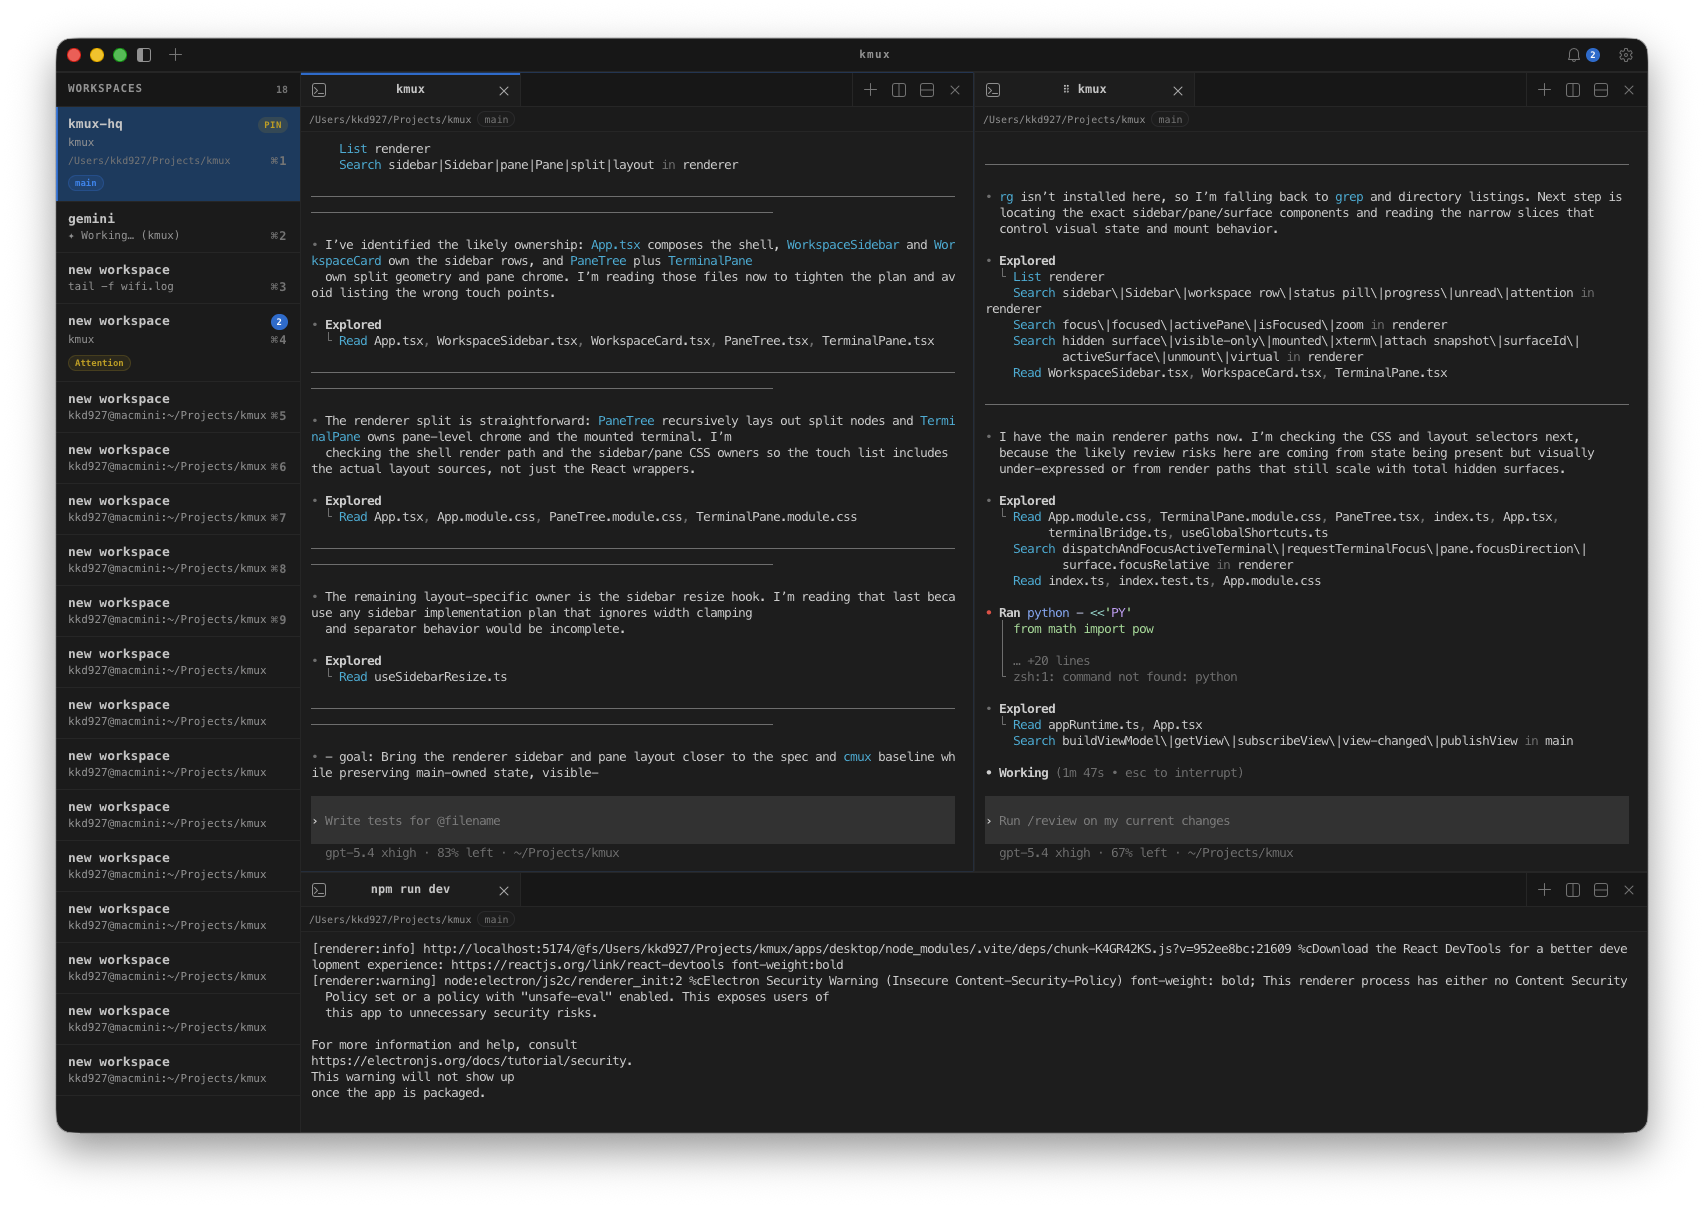
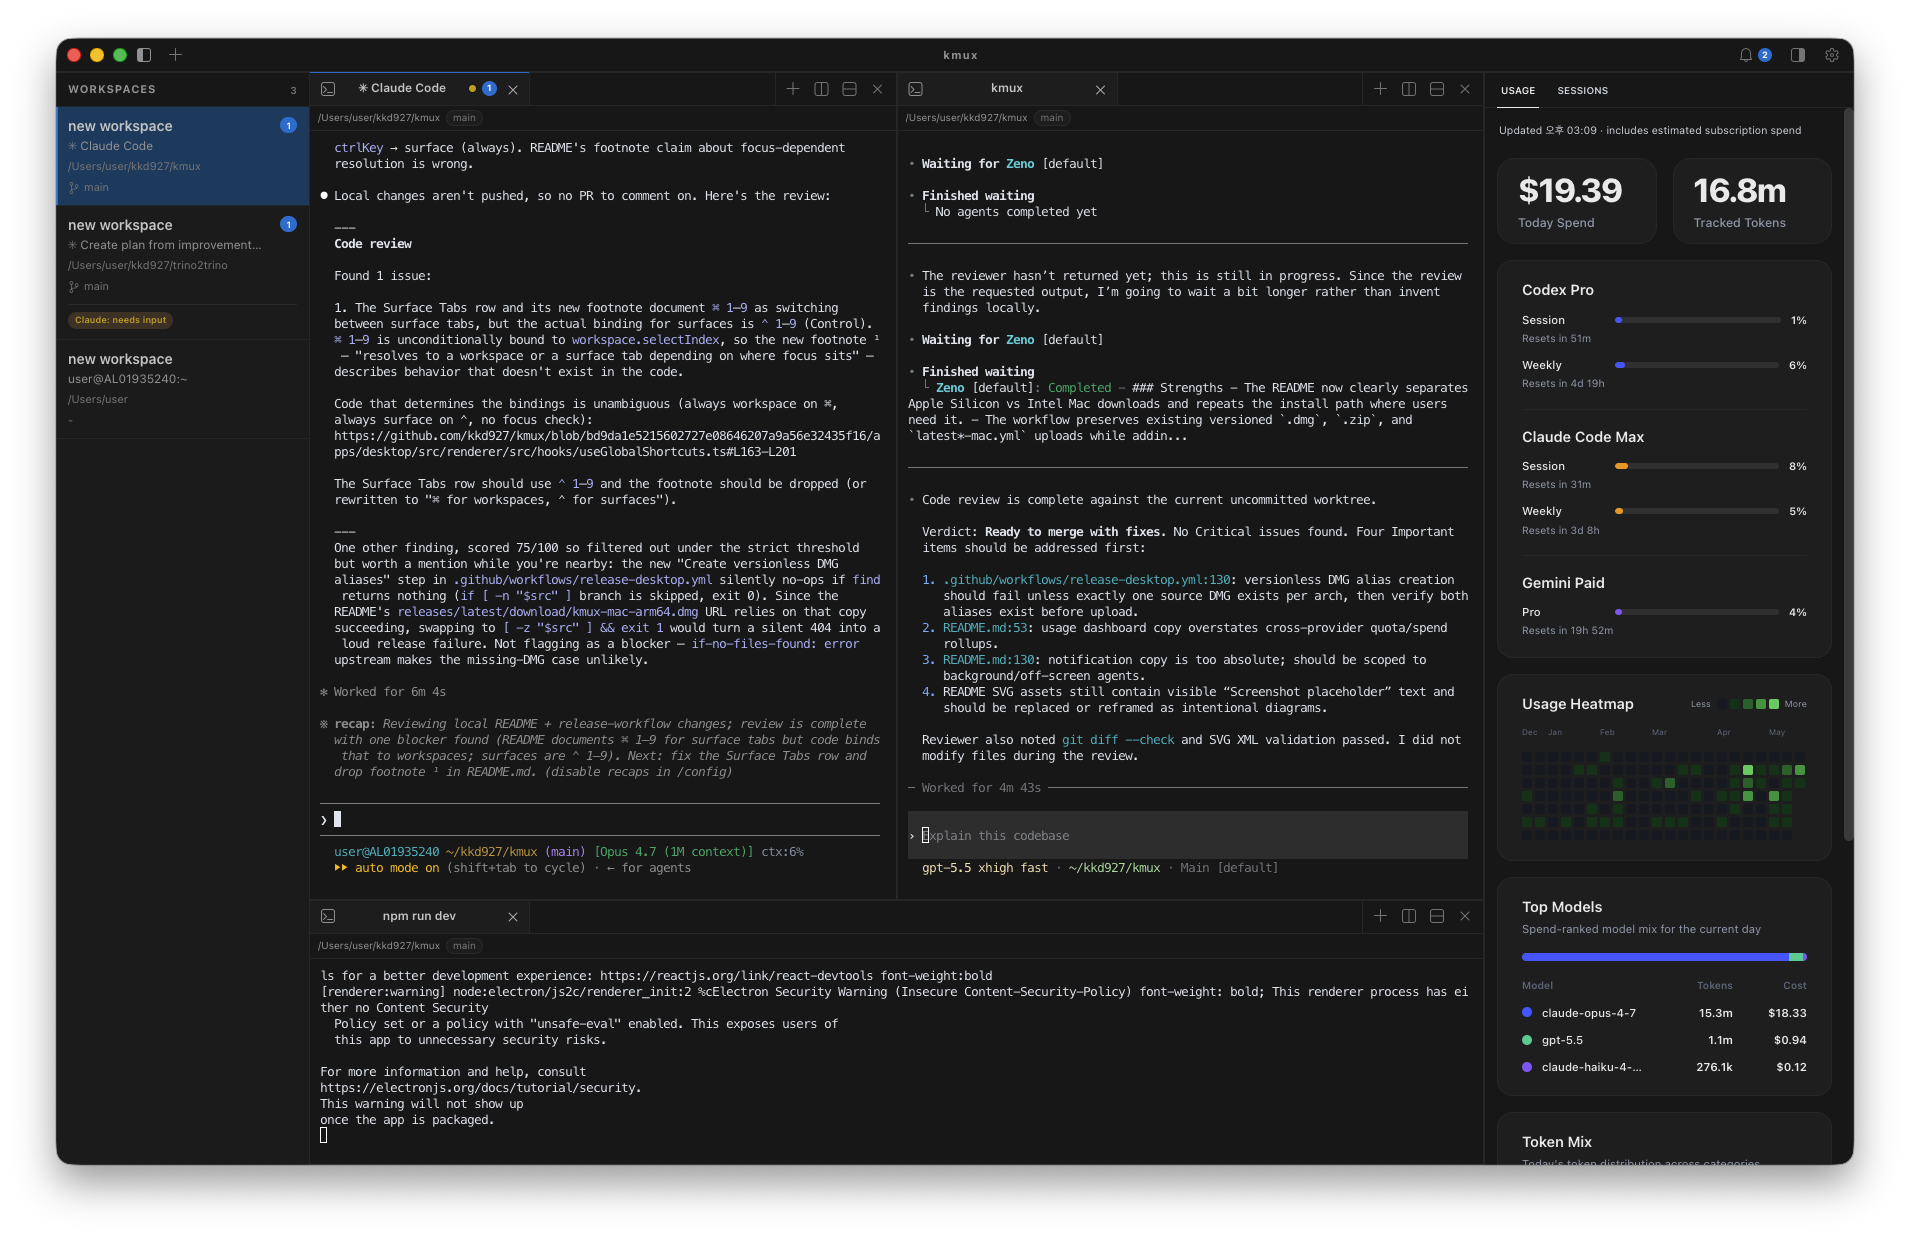
docs: refresh README and download assets

diff --git a/README.md b/README.md
@@ -2,20 +2,25 @@
 
 # kmux
 
-**A keyboard-first terminal workspace manager for macOS**
+**Run Claude Code, Codex CLI, and Gemini CLI side-by-side — without losing track of any of them.**
 
-Split panes. Tabbed surfaces. Sidebar status. Automation-ready.
+A macOS workspace for AI coding agents: parallel sessions, integrated usage, instant resume, worktree-safe branches.
 
 [![CI](https://github.com/kkd927/kmux/actions/workflows/ci.yml/badge.svg)](https://github.com/kkd927/kmux/actions/workflows/ci.yml)
 [![Release](https://img.shields.io/github/v/release/kkd927/kmux?display_name=tag&style=flat&logo=github)](https://github.com/kkd927/kmux/releases/latest)
 [![macOS](https://img.shields.io/badge/platform-macOS-000?logo=apple&logoColor=fff)](https://github.com/kkd927/kmux/releases/latest)
 [![PRs Welcome](https://img.shields.io/badge/PRs-welcome-a78bfa)](./CONTRIBUTING.md)
 
-[**Download**](https://github.com/kkd927/kmux/releases/latest) · [**Shortcuts**](#-keyboard-shortcuts)
-
 <br>
 
-<img src="./docs/assets/readme/hero.png" alt="kmux — terminal workspace manager" width="860">
+<a href="https://github.com/kkd927/kmux/releases/latest/download/kmux-mac-arm64.dmg"><img alt="Download for Apple Silicon" src="./docs/assets/readme/download-apple-silicon.svg" height="72"></a>
+&nbsp;
+<a href="https://github.com/kkd927/kmux/releases/latest/download/kmux-mac-x64.dmg"><img alt="Download for Intel Mac" src="./docs/assets/readme/download-intel-mac.svg" height="72"></a>
+
+<br>
+<br>
+
+<img src="./docs/assets/readme/hero.png" alt="kmux — AI coding agent workspace" width="1000">
 
 </div>
 
@@ -23,38 +28,68 @@ Split panes. Tabbed surfaces. Sidebar status. Automation-ready.
 
 ## ✨ Why kmux?
 
-**kmux** reimagines your terminal as a full workspace manager — not just a tabbed shell. Organize sessions into named workspaces, split panes freely, keep multiple surface tabs per pane, and let the smart sidebar track your context automatically.
+If you've started leaning on **Claude Code**, **Codex CLI**, and **Gemini CLI** for real work, you've already hit the friction: three terminals, three rate limits, three session histories, and no good way to keep them from stepping on each other inside the same repo.
+
+**kmux** is a macOS workspace built around exactly that workflow:
+
+- Park each agent in its own workspace and run them in parallel
+- Get native macOS notifications when any agent needs input or finishes
+- Track combined usage and remaining session budgets in one sidebar
+- Jump back into any past Claude/Codex/Gemini session with one click
+- Spin up a `git worktree` so two agents can edit the same repo on different branches safely
+
+It's keyboard-first by design — every workflow is reachable from the home row — but that's how it gets out of your way, not the headline.
+
+<br>
+
+## 🚀 Highlights
 
 <table>
 <tr>
-<td width="50%">
+<td width="50%" valign="top">
 
-### 🖥️ Split Panes & Surface Tabs
+### 📊 Unified Usage Dashboard
 
-Split your terminal horizontally or vertically with a single keystroke. Each pane can hold multiple **surface tabs**, so you can group related sessions (server, logs, tests) right next to each other without clutter.
+Track Claude Code, Codex CLI, and Gemini CLI side-by-side in one right-sidebar panel. The 5-hour session window, weekly window, and monthly spend roll up across all three providers — so you can see remaining session budget at a glance.
+
+A daily heatmap, today's spend, top-spending models, and per-project hotspots round out the view, replacing a stack of `usage` commands with a single live dashboard.
 
 </td>
-<td width="50%">
+<td width="50%" valign="top">
 
-### 📂 Multi-Workspace
-
-Create dedicated workspaces per project. Each workspace remembers its own layout, splits, and surfaces. Switch instantly with `⌘ ]` / `⌘ [` or jump by number.
+<img src="./docs/assets/readme/usage-dashboard.png" alt="Unified usage dashboard" width="100%">
 
 </td>
 </tr>
 <tr>
-<td width="50%">
+<td width="50%" valign="top">
 
-### 📡 Sidebar & Notifications
-
-The smart sidebar shows each workspace's **cwd**, **git branch**, **active ports**, and an **unread badge** — all at a glance. Notifications, status pills, progress bars, and log feeds live here too.
+<img src="./docs/assets/readme/session-history.png" alt="Cross-agent session history" width="100%">
 
 </td>
-<td width="50%">
+<td width="50%" valign="top">
 
-### 🤖 Automation & CLI
+### 🕘 Cross-Agent Session History
 
-Drive everything programmatically via the built-in **CLI** and **Unix socket API**. Create workspaces, send keystrokes, set sidebar status, and trigger notifications — perfect for scripting and AI coding agents.
+kmux indexes the local session logs for all three agents — Claude (`~/.claude/projects`), Codex (`~/.codex/sessions`), Gemini (`~/.gemini/tmp`) — and surfaces them in one filterable panel.
+
+Click any row to resume that session. kmux focuses an existing surface for the same `cwd` if one is open, or spins up a fresh workspace and runs `claude --resume`, `codex resume`, or `gemini --resume` for you.
+
+</td>
+</tr>
+<tr>
+<td width="50%" valign="top">
+
+### 🌳 Worktree Workspaces
+
+Right-click any workspace → **Convert to Worktree Workspace** to lock it onto a fresh `git worktree`. Now two agents can edit the same repo on different branches without fighting over the working tree.
+
+kmux tracks the worktree lifecycle — branch name, dirty state, and removal, including a confirmation prompt before deleting a worktree with uncommitted changes — so the working copy never gets orphaned.
+
+</td>
+<td width="50%" valign="top">
+
+<img src="./docs/assets/readme/worktree-workspace.png" alt="Worktree workspace" width="100%">
 
 </td>
 </tr>
@@ -62,81 +97,55 @@ Drive everything programmatically via the built-in **CLI** and **Unix socket API
 
 <br>
 
-## 🏗️ Feature Highlights
+### Everything else you'd expect from a serious terminal
 
-| Feature               | Description                                                         |
-| :-------------------- | :------------------------------------------------------------------ |
-| **Workspaces**        | Named, persistent workspaces with full layout restore on launch     |
-| **Split Panes**       | Horizontal and vertical splits with directional keyboard navigation |
-| **Surface Tabs**      | Multiple tabs per pane — group related shells together              |
-| **Smart Sidebar**     | Auto-detected cwd, git branch, port info, unread badges             |
-| **Notifications**     | In-app notification center with attention indicators                |
-| **Command Palette**   | Quick-access command palette (`⌘ ⇧ P`)                              |
-| **Terminal Search**   | Find in terminal with `⌘ F`, navigate matches with `⌘ G`            |
-| **Copy Mode**         | Vim-style copy mode for keyboard-only text selection                |
-| **Session Restore**   | Full workspace + layout persistence across restarts                 |
-| **Automation Socket** | JSON-RPC over Unix domain socket for external scripting             |
-| **CLI**               | `kmux` CLI to manage workspaces, surfaces, and notifications        |
-| **macOS Native**      | Proper title bar integration, native look and feel                  |
+- **Split panes & surface tabs** — group server, logs, and agent shells in one pane
+- **Smart sidebar** — auto-detected `cwd`, git branch, active ports, and unread badges per workspace
+- **Workspace persistence** — full layout restore on app launch
+- **Command palette** (`⌘ ⇧ P`), terminal search (`⌘ F`), vim-style copy mode
+- **Native macOS look** — proper title-bar integration, dark palette, retina-tuned rendering
 
 <br>
 
-## 📦 Installation
+## 📦 Install
 
-### DMG Download (Recommended)
+<p>
+  <a href="https://github.com/kkd927/kmux/releases/latest/download/kmux-mac-arm64.dmg"><img alt="Download for Apple Silicon" src="./docs/assets/readme/download-apple-silicon.svg" height="72"></a>
+  &nbsp;
+  <a href="https://github.com/kkd927/kmux/releases/latest/download/kmux-mac-x64.dmg"><img alt="Download for Intel Mac" src="./docs/assets/readme/download-intel-mac.svg" height="72"></a>
+</p>
 
-> **Apple Silicon** (M1/M2/M3/M4) → download the `arm64` build  
-> **Intel Mac** → download the `x64` build
-
-1. Download the latest `.dmg` from the [**Releases**](https://github.com/kkd927/kmux/releases/latest) page
-2. Open the `.dmg` and drag **kmux** into your `Applications` folder
+1. Click the button that matches your Mac (M1/M2/M3/M4 → Apple Silicon, older Intel Macs → Intel)
+2. Open the downloaded `.dmg` and drag **kmux** into your `Applications` folder
 3. On first launch, macOS may ask you to confirm — click **Open**
 
-### Build from Source
-
-```bash
-# Clone
-git clone https://github.com/kkd927/kmux.git
-cd kmux
-
-# Install dependencies
-npm install
-
-# Launch in development mode
-npm run dev
-
-# Or build the production .dmg
-npm run package:mac
-```
-
-**Requirements:** Node.js 22+, npm 10+, macOS 13+
-
 <br>
 
-## 🚀 Getting Started
+## 🏁 Quick Start
 
-1. **Launch kmux** — open the app or run `npm run dev`
-2. **Create a workspace** — press `⌘ N`
-3. **Split a pane** — `⌘ D` (vertical) or `⌘ ⇧ D` (horizontal)
-4. **Add a surface tab** — `⌘ T` inside any pane
-5. **Toggle sidebar** — `⌘ B` to see workspace context and status
-6. **Search terminal** — `⌘ F` to find text in scrollback
+1. Launch kmux and press `⌘ N` to create a workspace
+2. Inside it, run your agent — `claude`, `codex`, or `gemini`
+3. Toggle the sidebar with `⌘ B` to see the **Usage** and **Sessions** panels
+4. Press `⌘ N` again to park another agent in its own workspace — or right-click a workspace → **Convert to Worktree Workspace** if both should touch the same repo
+5. When an agent needs input or finishes, a native macOS notification fires and the workspace picks up an attention badge
 
 <br>
 
 ## ⌨️ Keyboard Shortcuts
 
+> Every shortcut here is also reachable from the command palette (`⌘ ⇧ P`).
+
 ### Workspaces
 
-| Shortcut  | Action                        |
-| :-------- | :---------------------------- |
-| `⌘ N`     | New workspace                 |
-| `⌘ ]`     | Next workspace                |
-| `⌘ [`     | Previous workspace            |
-| `⌘ 1`–`9` | Switch to workspace by number |
-| `⌘ ⇧ R`   | Rename workspace              |
-| `⌘ ⇧ W`   | Close workspace               |
-| `⌘ B`     | Toggle sidebar                |
+| Shortcut  | Action                          |
+| :-------- | :------------------------------ |
+| `⌘ N`     | New workspace                   |
+| `⌘ ]`     | Next workspace                  |
+| `⌘ [`     | Previous workspace              |
+| `⌘ 1`–`9` | Switch to workspace by number   |
+| `⌘ ⇧ R`   | Rename workspace                |
+| `⌘ ⇧ W`   | Close workspace                 |
+| `⌘ B`     | Toggle sidebar                  |
 
 ### Panes
 
@@ -150,118 +159,26 @@ npm run package:mac
 
 ### Surface Tabs
 
-| Shortcut  | Action                      |
-| :-------- | :-------------------------- |
-| `⌘ T`     | New surface tab             |
-| `⌃ Tab`   | Next surface                |
-| `⌃ ⇧ Tab` | Previous surface            |
-| `⌘ 1`–`9` | Switch to surface by number |
-| `⌘ W`     | Close surface               |
-| `⌃ ⌘ W`   | Close other surfaces        |
+| Shortcut  | Action                       |
+| :-------- | :--------------------------- |
+| `⌘ T`     | New surface tab              |
+| `⌃ Tab`   | Next surface                 |
+| `⌃ ⇧ Tab` | Previous surface             |
+| `⌃ 1`–`9` | Switch to surface by number  |
+| `⌘ W`     | Close surface                |
+| `⌃ ⌘ W`   | Close other surfaces         |
 
 ### Terminal & Utilities
 
 | Shortcut        | Action               |
 | :-------------- | :------------------- |
 | `⌘ ⇧ P`         | Command palette      |
-| `⌘ F`           | Search terminal      |
+| `⌘ F`           | Search in terminal   |
 | `⌘ G` / `⌘ ⇧ G` | Find next / previous |
-| `⌘ C`           | Copy                 |
-| `⌘ V`           | Paste                |
-| `⌘ ⇧ M`         | Copy mode            |
+| `⌘ C` / `⌘ V`   | Copy / paste         |
+| `⌘ ⇧ M`         | Vim-style copy mode  |
 | `⌘ I`           | Toggle notifications |
-| `⌘ ,`           | Toggle settings      |
-
-<br>
-
-## 🤖 Automation & CLI
-
-kmux exposes a **JSON-RPC API** over Unix domain socket and a companion **CLI** for scriptable workflows.
-
-```bash
-# Build the CLI
-npm run build
-
-# System
-kmux system ping
-kmux system capabilities
-
-# Workspaces
-kmux workspace list
-kmux workspace create --name "my-project"
-kmux workspace select --id <workspace-id>
-kmux workspace current
-
-# Surfaces
-kmux surface split --direction right
-kmux surface send-text --text "npm run dev\n"
-kmux surface send-key --key Enter
-
-# Notifications
-kmux notification create --title "Build complete" --body "All tests passed"
-
-# Sidebar
-kmux sidebar set-status --text "deploying..." --style warning
-kmux sidebar set-progress --value 75
-kmux sidebar log --message "Step 3/5 complete"
-```
-
-### Socket API
-
-Connect directly to the Unix domain socket for programmatic control:
-
-```
-KMUX_SOCKET_PATH=/tmp/kmux-<uid>.sock
-```
-
-The socket accepts JSON-RPC 2.0 messages. See the full API surface in the [product spec](./docs/product-spec.md).
-
-<br>
-
-## 🏛️ Architecture
-
-```
-apps/
-  desktop/
-    src/main/        # Electron main — state, persistence, socket API
-    src/preload/     # Typed IPC bridge
-    src/pty-host/    # node-pty + headless terminal runtime
-    src/renderer/    # xterm.js UI, split layout, sidebar
-packages/
-  core/              # Domain state, reducers, layout transforms
-  proto/             # IPC and socket contracts
-  persistence/       # File-store persistence helpers and app paths
-  metadata/          # Git, ports, cwd detection
-  cli/               # kmux automation CLI
-  ui/                # Shared UI tokens and helpers
-```
-
-**Key design decisions:**
-
-- The **renderer never owns PTY sessions** — all terminal lifetime is managed by `pty-host`
-- **Visible-only rendering** — hidden surfaces don't keep DOM terminals mounted
-- **Single-writer state** — all mutations flow through the main-process reducer
-- **Attach + snapshot** — switching surfaces re-attaches with full scrollback, no re-creation
-
-For the full architecture rationale, see the [ADR](./docs/adr/0002-electron-xterm-mvp-architecture.md).
-
-<br>
-
-## 🙋 Contributing
-
-Contributions are welcome! Please read the [Contributing Guide](./CONTRIBUTING.md) before opening a PR.
-
-```bash
-# Development workflow
-npm install          # Install deps
-npm run dev          # Launch dev mode
-npm run test         # Run unit tests
-npm run lint         # Lint
-npm run build        # Full production build
-npm run test:e2e     # End-to-end tests
-```
-
-See [docs/development.md](./docs/development.md) for the full developer guide.
+| `⌘ ,`           | Open settings        |
 
 <br>
 
@@ -269,9 +186,9 @@ See [docs/development.md](./docs/development.md) for the full developer guide.
 
 |                          |                                                                                                        |
 | :----------------------- | :----------------------------------------------------------------------------------------------------- |
-| 📖 **Product Spec**      | [docs/product-spec.md](./docs/product-spec.md)                                                         |
+| 📖 **Product Spec**      | [docs/product-spec.md](./docs/product-spec.md) — full feature spec, including automation socket & CLI  |
 | 🏗️ **Architecture ADR**  | [docs/adr/0002-electron-xterm-mvp-architecture.md](./docs/adr/0002-electron-xterm-mvp-architecture.md) |
-| 🛠️ **Development Guide** | [docs/development.md](./docs/development.md)                                                           |
+| 🛠️ **Development Guide** | [docs/development.md](./docs/development.md) — build from source, dev loop, debugging                  |
 | 🤝 **Contributing**      | [CONTRIBUTING.md](./CONTRIBUTING.md)                                                                   |
 | 📜 **Code of Conduct**   | [CODE_OF_CONDUCT.md](./CODE_OF_CONDUCT.md)                                                             |
 | 🔒 **Security Policy**   | [SECURITY.md](./SECURITY.md)                                                                           |
@@ -282,7 +199,7 @@ See [docs/development.md](./docs/development.md) for the full developer guide.
 
 ---
 
-**kmux** is built with ❤️ using Electron, xterm.js, and node-pty.
+**kmux** — your AI coding agents, side-by-side.
 
 <sub>macOS only · Pre-release · Actively developed</sub>
 